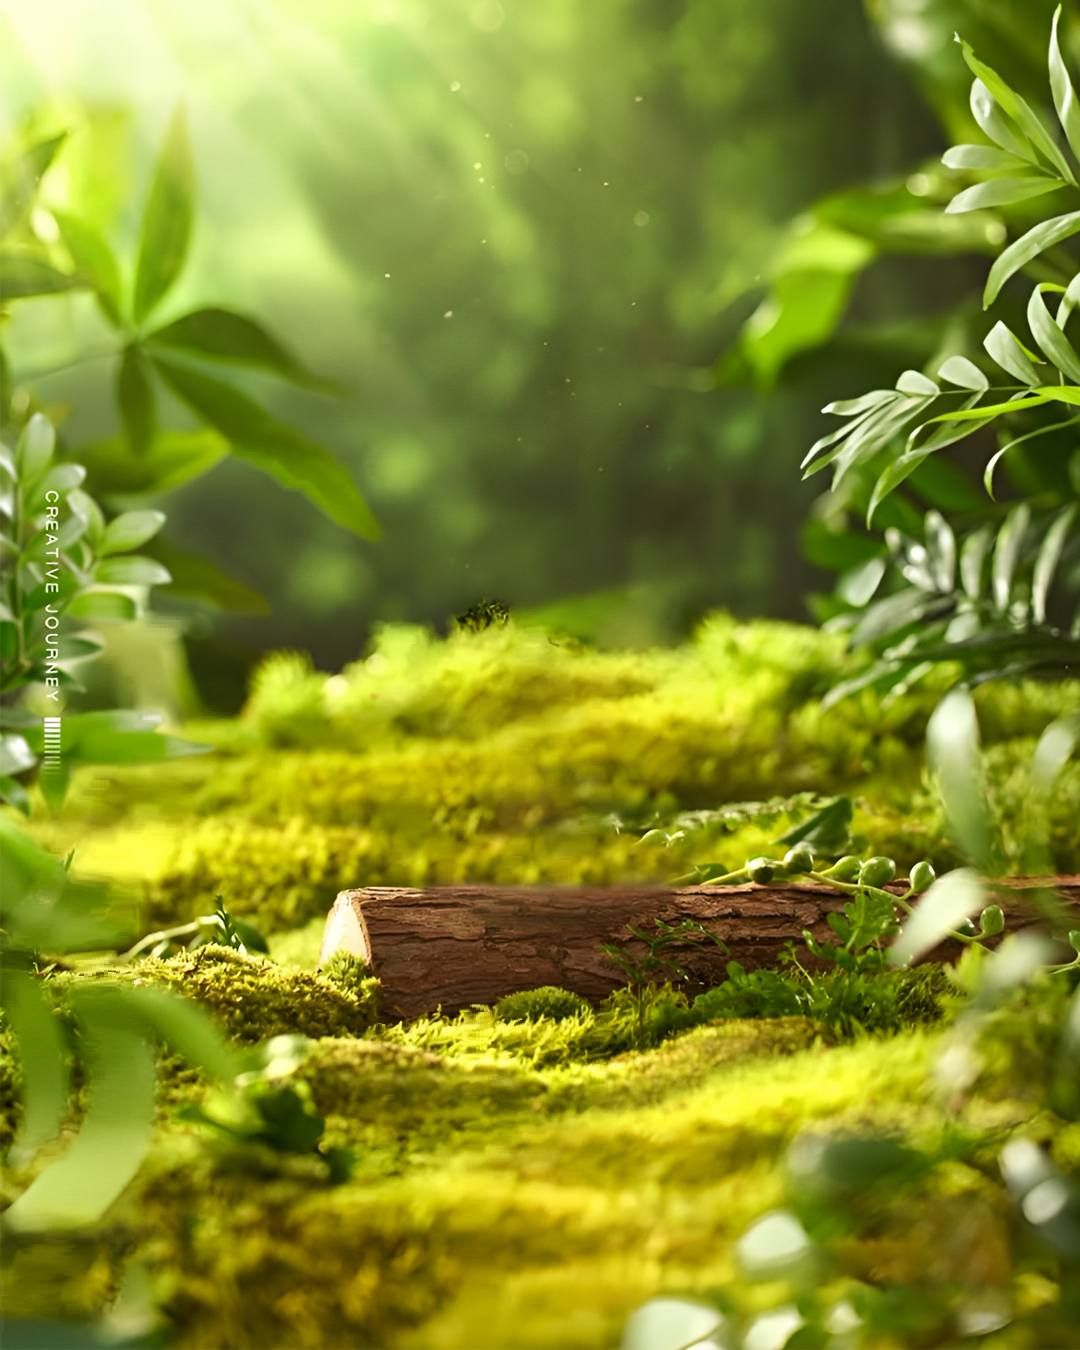
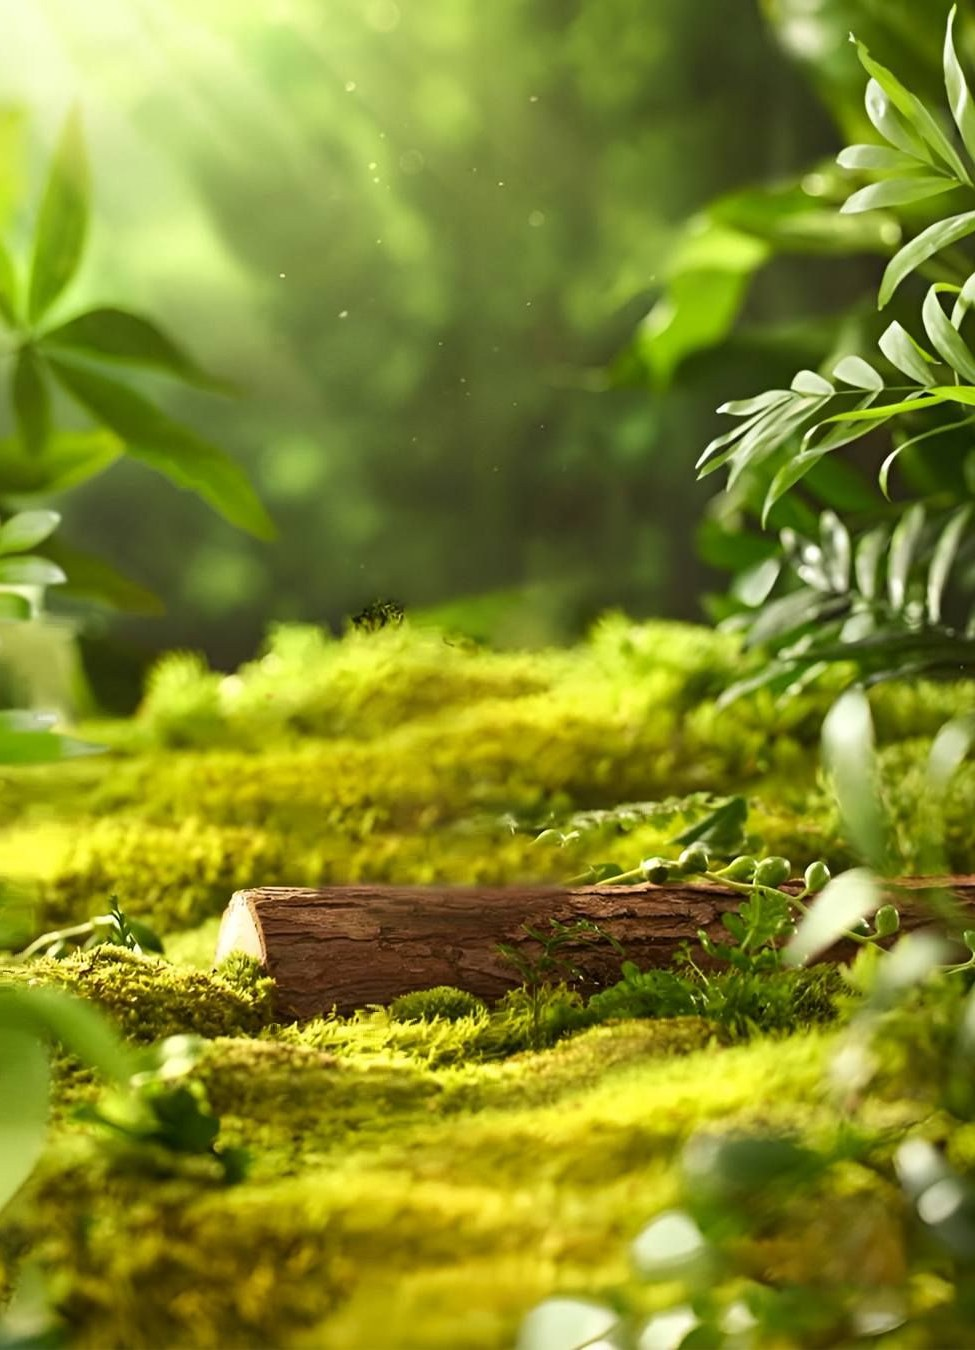
feat: quick contact, link previews, hero CTA, compact mobile homepage
- Call + Zalo: fixed bar on phones, buttons on product pages and in the
  hero; numbers come from the CMS contact section
- Open Graph / Twitter tags with absolute image URLs on every page
  (product, category, and article pages use their own image)
- Hero: remove the "CREATIVE JOURNEY" text baked into the background
  image, balance the title, original subtitle copy, CMS-editable
  primary button
- Phones: compact category story blocks, two-up product and value
  cards (homepage ~35% shorter)
- Sentence-case section and card headings
- Build step shrinks images (CMS uploads included) to ≤1600 px and
  recompresses them: 5.2 MB → 1.5 MB

Claude-Session: https://claude.ai/code/session_01QjM4PSddF6WTWmDz8piiMX

diff --git a/tests/contact-share.spec.ts b/tests/contact-share.spec.ts
@@ -1,0 +1,36 @@
+import { expect, test } from '@playwright/test';
+import { sampleProduct } from './published-content';
+
+test('pages carry absolute link-preview tags for Zalo and Facebook', async ({ page }) => {
+  for (const route of ['/', `/products/${sampleProduct.slug}/`, '/news/']) {
+    await page.goto(route);
+    const image = await page.locator('meta[property="og:image"]').getAttribute('content');
+    expect(image, route).toMatch(/^https:\/\/.+\.(jpe?g|png|webp)$/i);
+    await expect(page.locator('meta[property="og:title"]')).toHaveAttribute('content', await page.title());
+    expect(await page.locator('meta[property="og:description"]').getAttribute('content')).toBeTruthy();
+  }
+  await page.goto(`/products/${sampleProduct.slug}/`);
+  const productImage = await page.locator('.product-detail-hero > img').getAttribute('src');
+  expect(await page.locator('meta[property="og:image"]').getAttribute('content')).toContain(productImage!);
+});
+
+test('phones get a fixed call and Zalo bar; desktop does not', async ({ page }) => {
+  await page.setViewportSize({ width: 390, height: 844 });
+  await page.goto(`/products/${sampleProduct.slug}/`);
+  const bar = page.getByRole('region', { name: 'Liên hệ nhanh' });
+  await expect(bar).toBeVisible();
+  await expect(bar.locator('a[href^="tel:"]')).toBeVisible();
+  await expect(bar.locator('a[href^="https://zalo.me/"]')).toBeVisible();
+  const box = await bar.boundingBox();
+  expect(box!.y + box!.height).toBeGreaterThan(830);
+  await page.setViewportSize({ width: 1280, height: 900 });
+  await expect(bar).toBeHidden();
+  await expect(page.locator('.product-detail-hero a[href^="https://zalo.me/"]')).toBeVisible();
+});
+
+test('the hero offers a products button and Zalo consultation', async ({ page }) => {
+  await page.goto('/');
+  const hero = page.locator('[data-page-section="hero"]');
+  await expect(hero.getByRole('link', { name: /sản phẩm/i })).toHaveAttribute('href', /^\//);
+  await expect(hero.locator('a[href^="https://zalo.me/"]')).toBeVisible();
+});

diff --git a/scripts/optimize-images.js b/scripts/optimize-images.js
@@ -1,0 +1,45 @@
+// Shrinks images in the built site (dist/) so photos uploaded through the CMS
+// stay fast without the editor resizing them first. Originals in the repository
+// are untouched; file names and formats stay the same, so no links change.
+import { readdir, readFile, stat, writeFile } from 'node:fs/promises';
+import { extname, join } from 'node:path';
+import sharp from 'sharp';
+
+const root = new URL('../dist/assets/images/', import.meta.url).pathname;
+const maxWidth = 1600;
+const formats = { '.jpg': 'jpeg', '.jpeg': 'jpeg', '.png': 'png', '.webp': 'webp' };
+
+async function* files(dir) {
+  for (const entry of await readdir(dir, { withFileTypes: true })) {
+    const path = join(dir, entry.name);
+    if (entry.isDirectory()) yield* files(path);
+    else if (formats[extname(entry.name).toLowerCase()]) yield path;
+  }
+}
+
+let before = 0;
+let after = 0;
+try {
+  await stat(root);
+} catch {
+  console.log('optimize-images: no dist/assets/images, skipping');
+  process.exit(0);
+}
+for await (const path of files(root)) {
+  const input = await readFile(path);
+  const format = formats[extname(path).toLowerCase()];
+  let pipeline = sharp(input, { failOn: 'none' }).rotate().resize({ width: maxWidth, withoutEnlargement: true });
+  if (format === 'jpeg') pipeline = pipeline.jpeg({ quality: 80, mozjpeg: true });
+  if (format === 'png') pipeline = pipeline.png({ compressionLevel: 9, palette: true, quality: 85, effort: 8 });
+  if (format === 'webp') pipeline = pipeline.webp({ quality: 80 });
+  const output = await pipeline.toBuffer();
+  before += input.length;
+  if (output.length < input.length) {
+    await writeFile(path, output);
+    after += output.length;
+  } else {
+    after += input.length;
+  }
+}
+const mb = (bytes) => (bytes / 1048576).toFixed(1);
+console.log(`optimize-images: ${mb(before)} MB → ${mb(after)} MB`);

diff --git a/scripts/validate-content.js b/scripts/validate-content.js
@@ -39,6 +39,7 @@ export function validateContent({ categories, products, articles, sections }) {
     if (!section || !supportedSections.has(section.type)) errors.push(`${label}: unsupported section type "${section?.type ?? ''}"`);
     if (!nonblank(section?.title)) errors.push(`${label}: required field "title" is missing`);
     if (['hero', 'contact'].includes(section?.type) && !nonblank(section.body)) errors.push(`${label}: required field "body" is missing`);
+    if (section?.type === 'hero' && nonblank(section.cta_link) && !/^(\/|https:\/\/)/.test(section.cta_link)) errors.push(`${label}: button link must start with / or https://`);
     if (['recipes', 'values'].includes(section?.type)) {
       (section.items ?? []).forEach((item, itemIndex) => {
         if (!nonblank(item?.title)) errors.push(`${label}, item ${itemIndex + 1}: required field "title" is missing`);

diff --git a/src/data/contact.ts b/src/data/contact.ts
@@ -1,0 +1,13 @@
+// Contact details derived from the homepage "Store & contact" section, so the
+// footer, product pages, and the mobile contact bar follow one CMS field.
+import page from './pages/products.json';
+
+const contact = page.sections.find((section) => section.type === 'contact');
+const lines = (contact?.body || '').split('\n').map((line) => line.trim()).filter(Boolean);
+const phoneLine = lines.find((line) => /\d[\d .]{7,}\d/.test(line));
+const display = phoneLine?.match(/\d[\d .]{7,}\d/)?.[0].trim() || '0961 851 818';
+const digits = display.replace(/\D/g, '');
+
+export const contactTitle = contact?.title || 'Liên hệ';
+export const contactLines = lines;
+export const hotline = { display, tel: `tel:+84${digits.replace(/^0/, '')}`, zalo: `https://zalo.me/${digits}` };

diff --git a/tests/listing.spec.ts b/tests/listing.spec.ts
@@ -105,7 +105,8 @@ for (const viewport of [
     if (sectionTitle('products')) {
       await expect(page.locator('#products .product-card')).toHaveCount(publishedProducts.length);
       const columns = await page.locator('#products .products-grid').evaluate((grid) => getComputedStyle(grid).gridTemplateColumns.split(' ').length);
-      expect(columns).toBe(viewport.columns);
+      // Phones show two compact cards per row on the homepage.
+      expect(columns).toBe(viewport.width <= 768 ? 2 : viewport.columns);
     }
     const contact = homepageSections.find((section) => section.type === 'contact');
     if (contact?.body) await expect(page.locator('#contact')).toContainText(contact.body.split('\n').at(-1)!.trim());

diff --git a/README.md b/README.md
@@ -57,6 +57,8 @@ Astro reads the content files and generates plain HTML pages:
 
 Product detail pages show optional product fields only when they have content. Related products are selected from the same category. The homepage section editor supports the designed section types (hero, categories, products, recipes, brand values, certificates, and contact); it does not offer freeform page layout controls. All pages use the original branded homepage design: markup classes from the old `index.html` and its stylesheet, copied to `public/assets/css/product-storytelling.css`. Category descriptions feed the alternating story blocks on the homepage.
 
+Images uploaded in the CMS are committed to `public/assets/images/uploads`. The build (`scripts/optimize-images.js`) shrinks every image in the generated site to at most 1600 px wide and recompresses it, so editors can upload phone photos directly; originals in Git are unchanged. The hotline and Zalo links (footer, product pages, the fixed call/Zalo bar on phones) are read from the phone number in the homepage "Store & contact" section. Every page publishes Open Graph tags so links shared on Zalo or Facebook show the page's image and description.
+
 ## Change content
 
 Open <https://samngoclinh.pages.dev/admin/> on the deployed site, sign in, edit products/categories/news or the homepage sections, and save. Decap commits changes to GitHub on `prototype/designed-section-editor`; Cloudflare Pages automatically builds that production branch.
